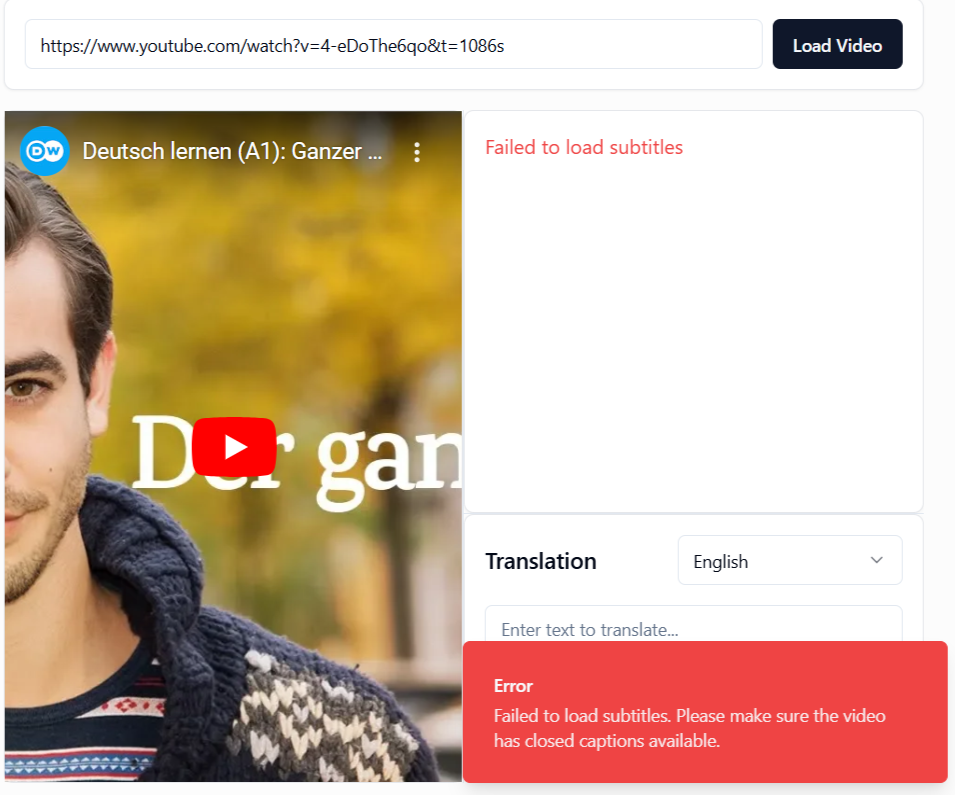
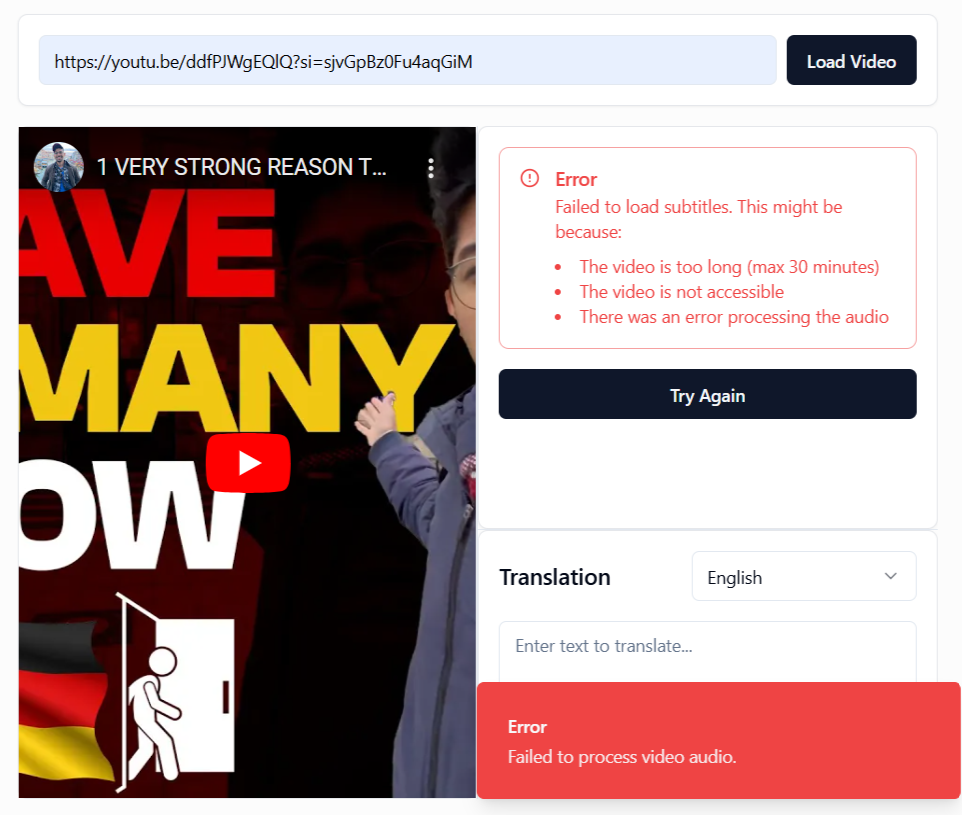
Agent query: Please verify if: 1. The interface shows a vertical layout with URL input at top, transcription in middle, and translation at bottom 2. You can enter a YouTube URL and the audio processing works 3. The error messages are clear and focused on audio processing 4. The translation panel wor

diff --git a/client/src/components/SubtitleViewer.tsx b/client/src/components/SubtitleViewer.tsx
@@ -26,15 +26,17 @@ export default function SubtitleViewer({ videoId }: SubtitleViewerProps) {
     videoId ? `/api/subtitles/${videoId}` : null,
     {
       onError: (err) => {
-        let errorMessage = "Failed to process video audio.";
-        if (err.message?.includes("Maximum content size")) {
+        let errorMessage = "Failed to process audio.";
+        if (err.message?.includes("too large") || err.message?.includes("maxFilesize")) {
+          errorMessage = "Audio file is too large. Please try a shorter video.";
+        } else if (err.message?.includes("duration") || err.message?.includes("maximum limit")) {
           errorMessage = "Video is too long. Please try a shorter video (max 30 minutes).";
-        } else if (err.message?.includes("no suitable")) {
-          errorMessage = "Could not download audio from this video. Please try another video.";
+        } else if (err.message?.includes("unavailable") || err.message?.includes("private")) {
+          errorMessage = "Video is unavailable or private. Please try another video.";
         }
         
         toast({
-          title: "Error",
+          title: "Audio Processing Error",
           description: errorMessage,
           variant: "destructive"
         });
@@ -50,48 +52,54 @@ export default function SubtitleViewer({ videoId }: SubtitleViewerProps) {
 
   if (!videoId) {
     return (
-      <Card className="h-full p-4">
-        <div className="text-muted-foreground">Load a video to see subtitles</div>
-      </Card>
+      <div className="p-8 text-center text-muted-foreground">
+        Enter a YouTube URL above to extract audio and generate subtitles
+      </div>
     );
   }
 
   if (error) {
     return (
-      <Card className="h-full p-4">
+      <div className="p-4">
         <Alert variant="destructive" className="mb-4">
           <AlertCircle className="h-4 w-4" />
-          <AlertTitle>Error</AlertTitle>
+          <AlertTitle>Audio Processing Failed</AlertTitle>
           <AlertDescription>
-            Failed to load subtitles. This might be because:
+            We couldn't process the audio because:
             <ul className="list-disc list-inside mt-2">
-              <li>The video is too long (max 30 minutes)</li>
-              <li>The video is not accessible</li>
-              <li>There was an error processing the audio</li>
+              <li>The video might be too long (max 30 minutes)</li>
+              <li>The video might be private or unavailable</li>
+              <li>There might be an issue with the audio extraction</li>
             </ul>
           </AlertDescription>
         </Alert>
         <Button onClick={handleRetry} className="w-full">
-          Try Again
+          Try Processing Again
         </Button>
-      </Card>
+      </div>
     );
   }
 
   return (
-    <Card className="h-full p-4">
-      <ScrollArea className="h-full">
+    <div className="p-4">
+      <ScrollArea className="h-[400px]">
         <div className="space-y-2">
           {isValidating ? (
             <div className="space-y-4">
               <div className="flex items-center gap-2 text-muted-foreground">
                 <Loader2 className="h-4 w-4 animate-spin" />
-                Processing video audio...
+                Extracting and Processing Audio...
               </div>
               <Alert>
-                <AlertTitle>Processing Large Video</AlertTitle>
+                <AlertTitle>Processing Audio</AlertTitle>
                 <AlertDescription>
-                  This might take a few minutes for longer videos. Please wait...
+                  We're currently:
+                  <ul className="list-disc list-inside mt-2">
+                    <li>Downloading the audio from YouTube</li>
+                    <li>Converting it to the right format</li>
+                    <li>Generating subtitles using AI</li>
+                  </ul>
+                  This might take a few minutes depending on the video length.
                 </AlertDescription>
               </Alert>
             </div>
@@ -111,10 +119,10 @@ export default function SubtitleViewer({ videoId }: SubtitleViewerProps) {
               </div>
             ))
           ) : (
-            <div className="text-muted-foreground">No subtitles available</div>
+            <div className="text-center text-muted-foreground">No subtitles available</div>
           )}
         </div>
       </ScrollArea>
-    </Card>
+    </div>
   );
 }

diff --git a/client/src/pages/Home.tsx b/client/src/pages/Home.tsx
@@ -1,5 +1,4 @@
 import { useState } from "react";
-import { ResizableHandle, ResizablePanel, ResizablePanelGroup } from "@/components/ui/resizable";
 import { Card } from "@/components/ui/card";
 import { Input } from "@/components/ui/input";
 import { Button } from "@/components/ui/button";
@@ -7,7 +6,6 @@ import { useForm } from "react-hook-form";
 import { z } from "zod";
 import { zodResolver } from "@hookform/resolvers/zod";
 import { Form, FormControl, FormField, FormItem, FormMessage } from "@/components/ui/form";
-import VideoPlayer from "../components/VideoPlayer";
 import SubtitleViewer from "../components/SubtitleViewer";
 import TranslationPanel from "../components/TranslationPanel";
 import { useToast } from "@/hooks/use-toast";
@@ -52,7 +50,7 @@ export default function Home() {
   };
 
   return (
-    <div className="container mx-auto p-4 h-screen flex flex-col gap-4">
+    <div className="container mx-auto p-4 min-h-screen flex flex-col gap-4">
       <Card className="p-4">
         <Form {...form}>
           <form onSubmit={form.handleSubmit(onSubmit)} className="flex gap-2">
@@ -62,34 +60,25 @@ export default function Home() {
               render={({ field }) => (
                 <FormItem className="flex-1">
                   <FormControl>
-                    <Input placeholder="Enter YouTube URL" {...field} />
+                    <Input placeholder="Enter YouTube URL to extract audio and generate subtitles" {...field} />
                   </FormControl>
                   <FormMessage />
                 </FormItem>
               )}
             />
-            <Button type="submit">Load Video</Button>
+            <Button type="submit">Process Audio</Button>
           </form>
         </Form>
       </Card>
 
-      <ResizablePanelGroup direction="horizontal" className="flex-1">
-        <ResizablePanel defaultSize={50} minSize={30}>
-          <VideoPlayer videoId={videoId} />
-        </ResizablePanel>
-        <ResizableHandle />
-        <ResizablePanel defaultSize={50}>
-          <ResizablePanelGroup direction="vertical">
-            <ResizablePanel defaultSize={60}>
-              <SubtitleViewer videoId={videoId} />
-            </ResizablePanel>
-            <ResizableHandle />
-            <ResizablePanel defaultSize={40}>
-              <TranslationPanel />
-            </ResizablePanel>
-          </ResizablePanelGroup>
-        </ResizablePanel>
-      </ResizablePanelGroup>
+      <div className="flex-1 flex flex-col gap-4">
+        <Card className="flex-1">
+          <SubtitleViewer videoId={videoId} />
+        </Card>
+        <Card className="flex-1">
+          <TranslationPanel />
+        </Card>
+      </div>
     </div>
   );
 }

diff --git a/client/src/components/TranslationPanel.tsx b/client/src/components/TranslationPanel.tsx
@@ -1,5 +1,4 @@
 import { useState } from "react";
-import { Card } from "@/components/ui/card";
 import { Button } from "@/components/ui/button";
 import { Textarea } from "@/components/ui/textarea";
 import { Select, SelectContent, SelectItem, SelectTrigger, SelectValue } from "@/components/ui/select";
@@ -37,7 +36,7 @@ export default function TranslationPanel() {
   };
 
   return (
-    <Card className="h-full p-4 flex flex-col gap-4">
+    <div className="p-4 flex flex-col gap-4">
       <div className="flex justify-between items-center">
         <h3 className="text-lg font-medium">Translation</h3>
         <Select value={targetLang} onValueChange={setTargetLang}>
@@ -54,12 +53,12 @@ export default function TranslationPanel() {
         </Select>
       </div>
 
-      <div className="flex-1 flex flex-col gap-4">
+      <div className="grid grid-cols-1 gap-4">
         <Textarea
-          placeholder="Enter text to translate..."
+          placeholder="Click on a subtitle above to translate it..."
           value={sourceText}
           onChange={(e) => setSourceText(e.target.value)}
-          className="flex-1"
+          className="min-h-[100px]"
         />
         <Button onClick={handleTranslate} disabled={loading || !sourceText}>
           {loading ? "Translating..." : "Translate"}
@@ -68,9 +67,9 @@ export default function TranslationPanel() {
           value={translation}
           readOnly
           placeholder="Translation will appear here..."
-          className="flex-1 bg-muted"
+          className="min-h-[100px] bg-muted"
         />
       </div>
-    </Card>
+    </div>
   );
 }
